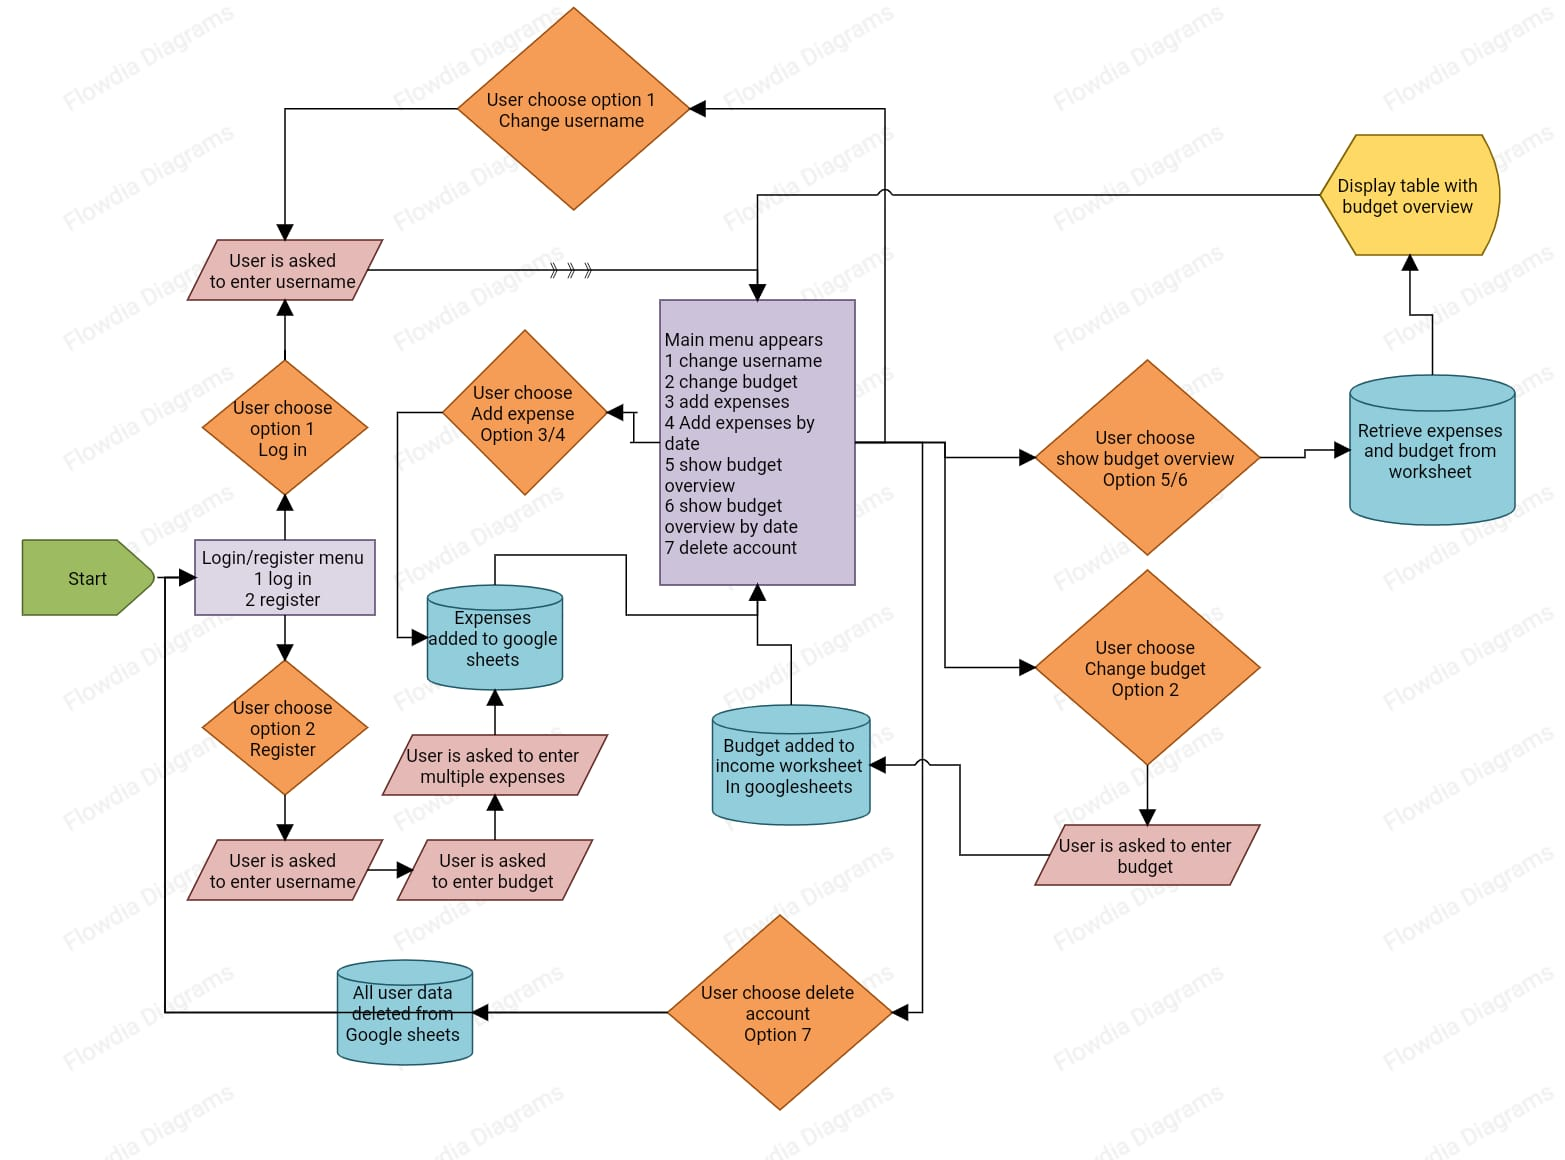
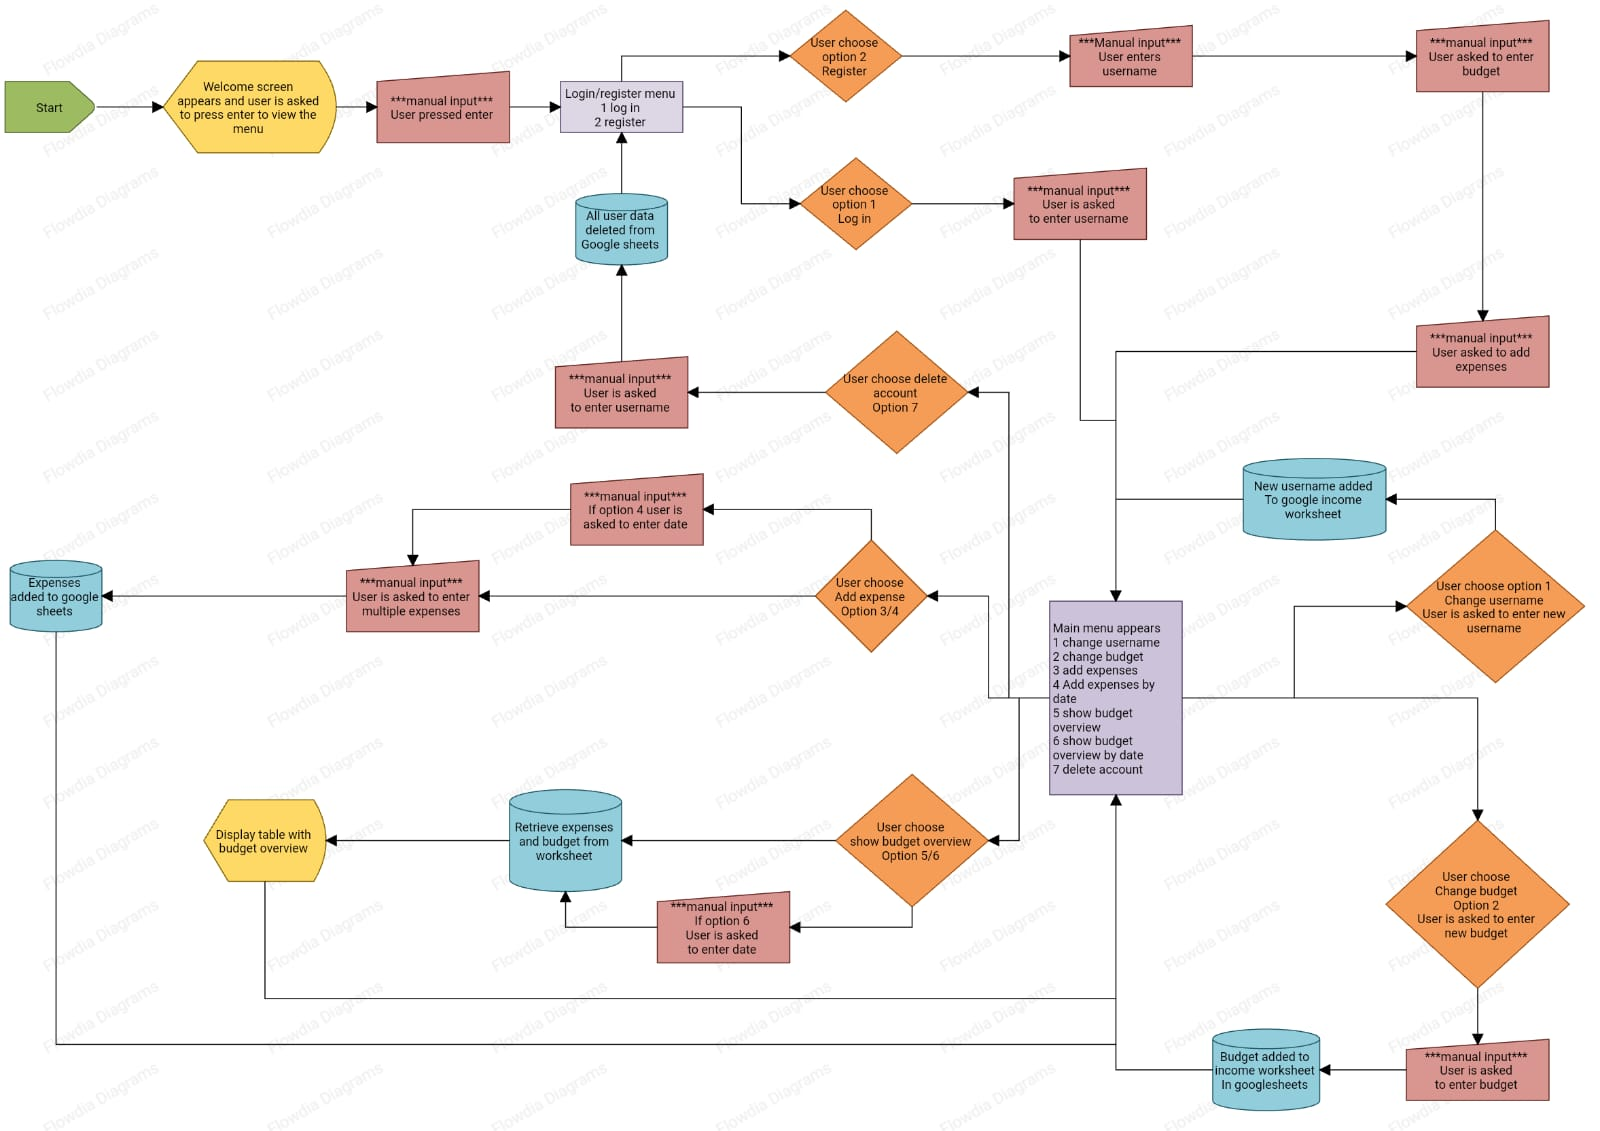
Docs: add new flowchart and fix some spelling mistakes

diff --git a/README.md b/README.md
@@ -42,7 +42,7 @@ The goals of this website include:
 
   - Expense Tracking: Users want to easily and accurately track their daily expenses, including purchases, bills, and other financial transactions. They aim to gain a clear understanding of where their money is going.
 
-  - Budget Management: Users aim to set and manage budgets for different spending categories, such as groceries, entertainment, and utilities. They want to stay within their budget limits and receive alerts when approaching or exceeding them.
+  - Budget Management: Users aim to set and manage budgets for different spending categories, such as groceries and utilities.
 
   - Savings and Investment: Users may have specific savings or investment goals, such as saving for retirement, a down payment on a house, or a child's education. They want to track their progress toward these goals and make adjustments as needed.
 
@@ -50,7 +50,7 @@ The goals of this website include:
 
 - __Site Owner Goals__
 
-  - Create an Application that Helps Users Track Their Budget and Get Better at Budgeting
+  - Create an Application that Helps Users Track Their Budget.
   - Create an easy to use website and user interface.
 
   [Back to Table of Contents](#table-of-contents)
@@ -70,7 +70,7 @@ ___
  - __Players__
 
 1.	As a **user** I can **view the results in the terminal** so that **I can see where I went over budget**
-2.	As a **user** I can **search budget my date** so that **I can compare my weekly budget**
+2.	As a **user** I can **view my budget by date** so that **I can compare my weekly budget**
 3.	As a **user** I can **register my username and budget** so that **the app can check if I went over budget**
 4.	As a **user** I can **view a terminal logo** so that **I know that I am on on the right site**
 5.	As a **user** I can **enter my username** so that **I can get all data related to my username**
@@ -151,14 +151,14 @@ ___
 
 - View budget overview for previous 7 days from current date
 
-  - If the user chooses View budget overview for previous 7 days from current date(option 5) the will be presented with a table showing expenses for the last 7days and also a separate table showing budget , total expenses and savings
+  - If the user chooses View budget overview for previous 7 days from current date(option 5) they will be presented with a table showing expenses for the last 7 days and also a separate table showing budget , total expenses and savings
     
 ![Budget overview](docs/readme_images/budget-overview.png)
 
 
-- View budget overview for previous 7 days from date entered
+- View budget overview for previous 7 days from the date entered
 
-  - If the user chooses View budget overview for previous 7 days from date entered(option 6) they wil be asked to enter a date and then given a budget overview 7 days previous from that date
+  - If the user chooses View budget overview for previous 7 days from date entered(option 6) they will be asked to enter a date and then given a budget overview 7 days previous from that date
 
 ![Budget overview by date](docs/readme_images/budget-overview-by-date.png)
 

diff --git a/TESTING.md b/TESTING.md
@@ -1,6 +1,6 @@
 ### Python Validation
 
-I validated both my files using [Code Institute's Python Linter](https://pep8ci.herokuapp.com/) and was met with no errors.
+I validated all my files using [Code Institute's Python Linter](https://pep8ci.herokuapp.com/) and was met with no errors.
 
 | File Validated | Image |
 | -------------- | ----- |
@@ -24,7 +24,7 @@ As a **user** I can **view the results in the terminal** so that **I can see whe
 
 
 User Story 2:
-As a **user** I can **search budget my date** so that **I can compare my weekly budget**
+As a **user** I can **view my budget by date** so that **I can compare my weekly budget**
 
 | **Feature** | **Action** | **Expected Result** | **Actual Result** |
 |-------------|------------|---------------------|-------------------|
